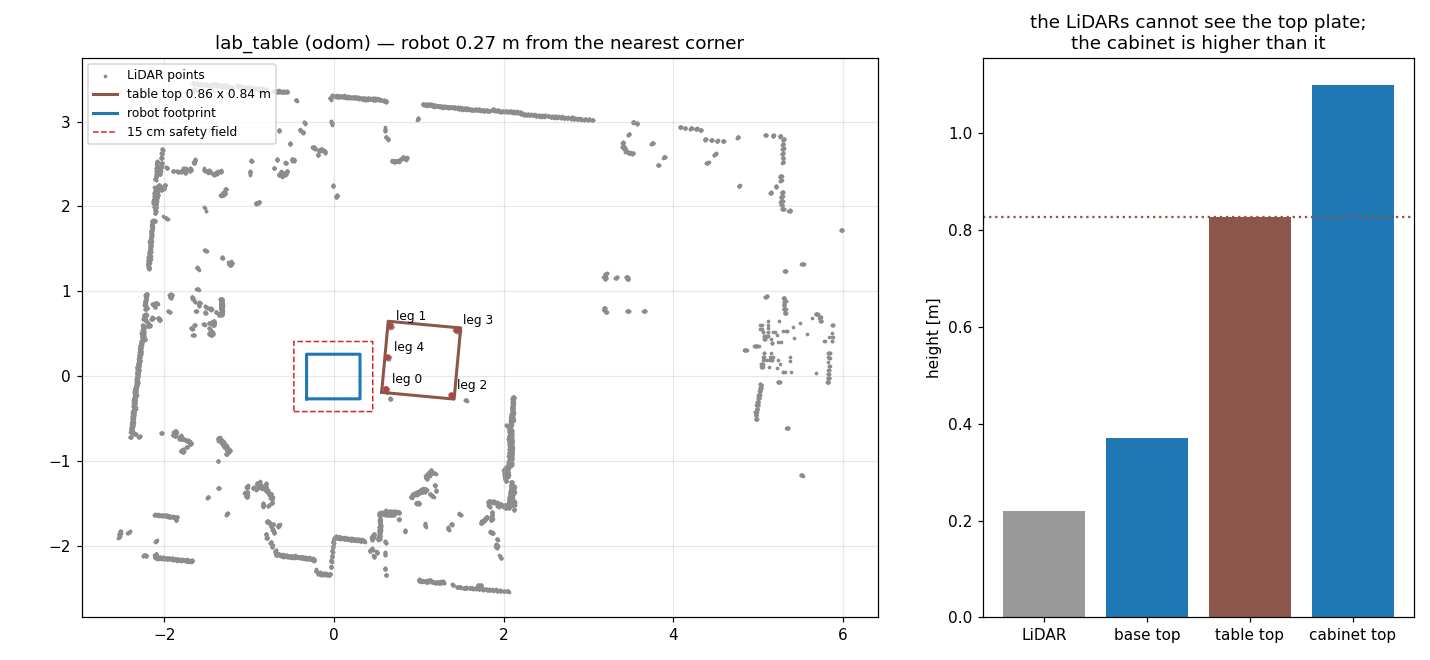
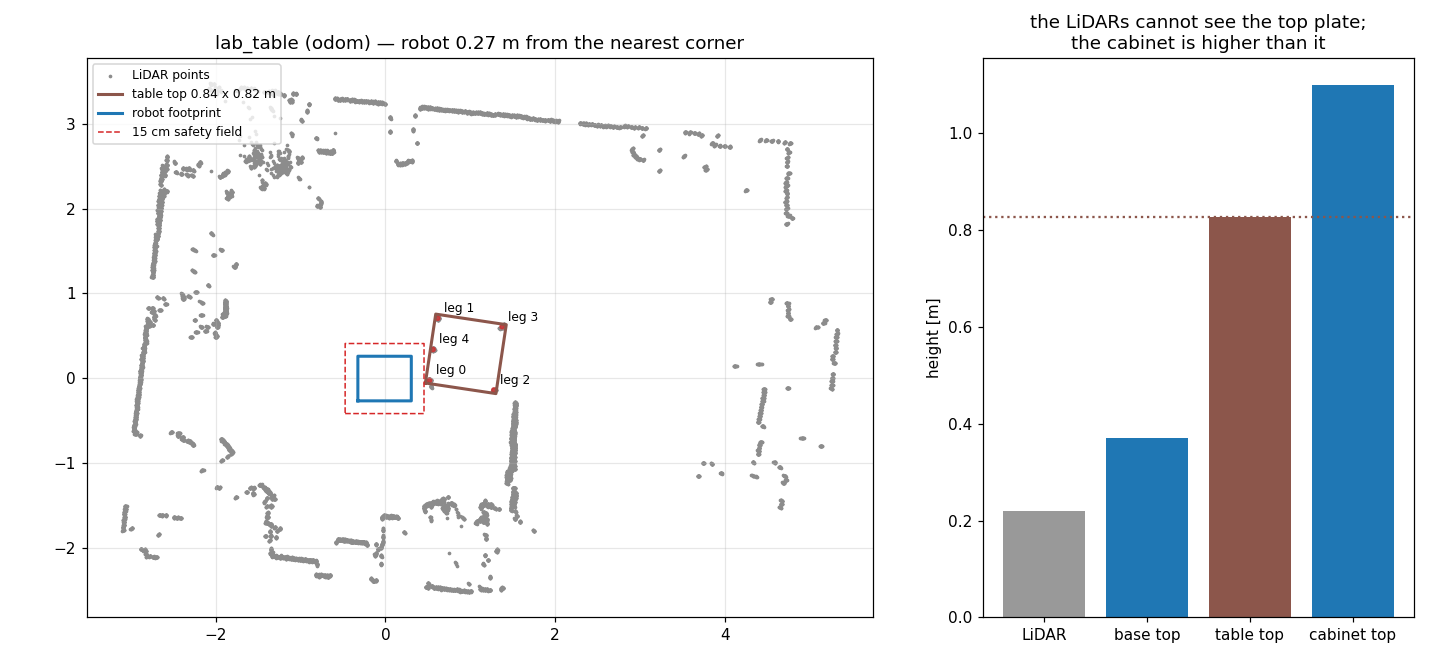
Sim2Real Static Complete

diff --git a/steve_wbc/active_perception_wbc.py b/steve_wbc/active_perception_wbc.py
@@ -1373,7 +1373,7 @@ class ActivePerceptionWBC:
             self._enter("PRE_GRASP", f"{why}; VGN already {'running' if self.vgn_pending else 'done'}")
         elif self.w.vgn_available():
             have = self.w.vgn_n_views() if self.vgn_t0 is not None else 0
-            if self.a.vgn_mode == "drive" and have >= VGN_DRIVE_MIN_VIEWS:
+            if self.a.vgn_mode == "drive" and have >= self._drive_views()[0]:
                 self._vgn_launch()
                 self._enter("PRE_GRASP", f"{why}; {have} VGN views from the drive, inference in the background")
                 return
@@ -1429,18 +1429,25 @@ class ActivePerceptionWBC:
         self.vgn_last_view = (self.t, st.base[:2].copy())
         return n
 
+    def _drive_views(self):
+        """drive mode: (views that let the robot skip the stopped scan, views that start inference
+        while still driving) — --vgn_views if given (1: the first good view starts it), else 3 / 6."""
+        n_max = self.a.vgn_views if self.a.vgn_views_given else VGN_DRIVE_MAX_VIEWS
+        return min(VGN_DRIVE_MIN_VIEWS, n_max), n_max
+
     def _drive_vgn_views(self, st):
         """drive mode: arm posture while driving, taking VGN views once the object is near."""
         if not self._tracked():
             return DRIVE_POSE
         obj = self.tracker.predict(self.t)
-        if np.linalg.norm(obj[:2] - st.base[:2]) > VGN_DRIVE_RANGE:
+        if np.linalg.norm(obj[:2] - st.base[:2]) > self.a.vgn_drive_range:
             return DRIVE_POSE
         q = list(SCAN_SEED_Q)
         q[0] = self._pan_to(st, obj)
         n = self.w.vgn_n_views() if self.vgn_t0 is not None else 0
         ready = np.max(np.abs(np.asarray(q) - st.q)) < VGN_ARM_READY
-        if ready and n < VGN_DRIVE_MAX_VIEWS:
+        n_min, n_max = self._drive_views()
+        if ready and n < n_max:
             last = self.vgn_last_view
             if (last is None or np.linalg.norm(st.base[:2] - last[1]) >= VGN_DRIVE_SPACING
                     or self.t - last[0] >= VGN_DRIVE_PERIOD):
@@ -1451,7 +1458,7 @@ class ActivePerceptionWBC:
                     return q
                 print(f"  VGN view {n} while driving (object {np.linalg.norm(obj[:2] - st.base[:2]):.2f} m "
                       f"from the base)")
-                if n >= VGN_DRIVE_MAX_VIEWS and not self.vgn_pending and self.vgn_result is None:
+                if n >= n_max and not self.vgn_pending and self.vgn_result is None:
                     self._vgn_launch()  # while still driving
         return q
 
@@ -1744,7 +1751,7 @@ class ActivePerceptionWBC:
         safety = make_safety(self.b, a)
         stop_t0 = None  # start of the current safety stop
         print(f"\n{'═' * 74}\n  Steve active perception + grasping — unified joint-velocity WBC  [{a.mode}]"
-              f"\n{'═' * 74}\n  VGN: {('on' + ('' if a.grasp_backend == 'vgn' else f' ({a.grasp_backend})')) if self.w.vgn_available() else 'off'}   object: "
+              f"\n{'═' * 74}\n  VGN: {('on' + ('' if a.grasp_backend == 'vgn' else f' ({a.grasp_backend})')) if self.w.vgn_available() else 'starting (environment check)' if self.w.vgn_checking() else 'off'}   object: "
               f"{getattr(a, 'object_type', '-')}   collision env: {a.collision_env}")
 
         try:
@@ -1926,7 +1933,12 @@ def main(argv=None):
     g.add_argument("--object_speed", type=float, default=None,
                    help="sim object speed along +y [m/s] (default: 0.02; clutter scene: 0)")
     g.add_argument("--no_vgn", action="store_true", help="skip the VGN scan (coarse position, top-down)")
-    g.add_argument("--vgn_views", type=int, default=4)
+    g.add_argument("--vgn_views", type=int, default=None,
+                   help="views per grasp scan (default 4); drive mode: inference starts once this many are "
+                        "taken while driving (default 6) — 1: as soon as the object is in view and in range")
+    g.add_argument("--vgn_drive_range", type=float, default=VGN_DRIVE_RANGE,
+                   help="drive mode: base-object distance below which views are taken while driving [m] "
+                        "(real D415: ~1.2, its depth gets coarse farther away)")
     g.add_argument("--grasp_backend", choices=["vgn", "cgn"], default="vgn",
                    help="grasp detector of the scan: vgn (one TSDF of all views, vgn_env) | cgn (robot: "
                         "Contact-GraspNet per view on the target's Grounded-SAM mask; model servers "
@@ -1994,6 +2006,8 @@ def main(argv=None):
     g.add_argument("--grip_effort", type=float, default=50.0)
     p.set_defaults(sim_q0=DRIVE_POSE, max_base_v=0.30, max_base_w=0.50, max_arm_vel=0.8, grasp_dz=-0.015)
     a = parse_args(argv, p)
+    a.vgn_views_given = a.vgn_views is not None
+    a.vgn_views = a.vgn_views if a.vgn_views_given else 4
     save_console(a.mode)
     if a.mode == "kin":
         sys.exit("active_perception_wbc needs perception: use --mode sim or --mode ros")

diff --git a/steve_wbc/steve_figure8_wbc.py b/steve_wbc/steve_figure8_wbc.py
@@ -1284,24 +1284,47 @@ class RosBackend(Backend):
         self.switch_cli = None
         self.switched = False
         if args.arm_interface == "velocity" and args.switch_controllers:
-            from controller_manager_msgs.srv import SwitchController
-            self.SwitchController = SwitchController
+            from controller_manager_msgs.srv import ListControllers, SwitchController
+            self.SwitchController, self.ListControllers = SwitchController, ListControllers
             self.switch_cli = self.node.create_client(
                 SwitchController, f"{args.controller_manager}/switch_controller")
+            self.list_cli = self.node.create_client(
+                ListControllers, f"{args.controller_manager}/list_controllers")
 
         self._t_next = None
 
+    def _controller_states(self):
+        """{name: state} from the controller manager, or None if it does not answer."""
+        if not self.list_cli.wait_for_service(timeout_sec=3.0):
+            return None
+        fut = self.list_cli.call_async(self.ListControllers.Request())
+        self.rclpy.spin_until_future_complete(self.node, fut, timeout_sec=3.0)
+        if not fut.done() or fut.result() is None:
+            return None
+        return {c.name: c.state for c in fut.result().controller}
+
     def _switch(self, activate, deactivate):
-        """Synchronous controller switch (STRICT); True on success."""
+        """Synchronous controller switch (STRICT); True on success. Only what is needed is requested:
+        a STRICT request to deactivate a controller that is not active fails as a whole, so a
+        state left over from an earlier run (e.g. both arm controllers inactive after a failed
+        switch-back) would otherwise block every start."""
         if not self.switch_cli.wait_for_service(timeout_sec=3.0):
             self.log.error("controller_manager/switch_controller not available")
             return False
-        req = self.SwitchController.Request(activate_controllers=[activate],
-                                            deactivate_controllers=[deactivate], strictness=2)
+        states = self._controller_states() or {}  # unknown: request both, as before
+        act = [] if states.get(activate) == "active" else [activate]
+        deact = [deactivate] if states.get(deactivate, "active") == "active" else []
+        if not act and not deact:
+            self.log.info(f"controllers: {activate} already active")
+            return True
+        req = self.SwitchController.Request(activate_controllers=act, deactivate_controllers=deact,
+                                            strictness=2)
         fut = self.switch_cli.call_async(req)
         self.rclpy.spin_until_future_complete(self.node, fut, timeout_sec=3.0)
         ok = fut.done() and fut.result() is not None and fut.result().ok
-        self.log.info(f"controllers: {deactivate} -> {activate}: {'ok' if ok else 'FAILED'}")
+        was = ", ".join(f"{n} {states.get(n, '?')}" for n in (deactivate, activate))
+        self.log.info(f"controllers: {deactivate} -> {activate}: {'ok' if ok else 'FAILED'}"
+                      + ("" if ok or not states else f" (before: {was})"))
         return ok
 
     # Callbacks ─────────────────────────────────────────────────────────────

diff --git a/README.md b/README.md
@@ -96,7 +96,17 @@ the real robot.
 
   Inference time is charged 1:1 to simulation time, so the modes compare fairly
   (`python3 test/compare_vgn_modes.py`). A result arriving after the descent started is ignored;
-  `--vgn_max_wait` bounds a hover at the pre-grasp.
+  `--vgn_max_wait` bounds a hover at the pre-grasp. On the robot the scan's inference always runs in
+  the background (the robot holds in `VGN_WAIT`; a blocking call stalls the state feedback), and VGN
+  runs in a **persistent worker** started with the WBC (~3 s while it drives; then ~0.1 s per inference
+  instead of ~4–7 s for a new process).
+
+  **Fastest** (2026-10-15, sim with a static ball: robot waits 10.3 s with 4 views → 3.6 s with 1 →
+  1.2 s with `drive` + 1 view): `vgn_mode:=drive extra_args:="... --vgn_views 1 --vgn_drive_range 1.2"`
+  — inference starts at the first good view while the robot still drives (`--vgn_views`: views that
+  start it, default 6 in `drive`, 4 in `scan`; `--vgn_drive_range`: base–object distance for drive views,
+  default 2.3 m, ~1.2 m for the D415's depth). No drive view (arm not yet in scan pose): a stopped
+  1-view scan instead.
 * **Go to the grasp pose only** (`--goto_grasp_only`, launch `goto_grasp_only:=true`; no gripper on
   the arm): after the descent the EE stays at the grasp pose with the object (static or moving) for
   `--hold_time`, never closes a gripper or lifts, then backs up to the pre-grasp height
